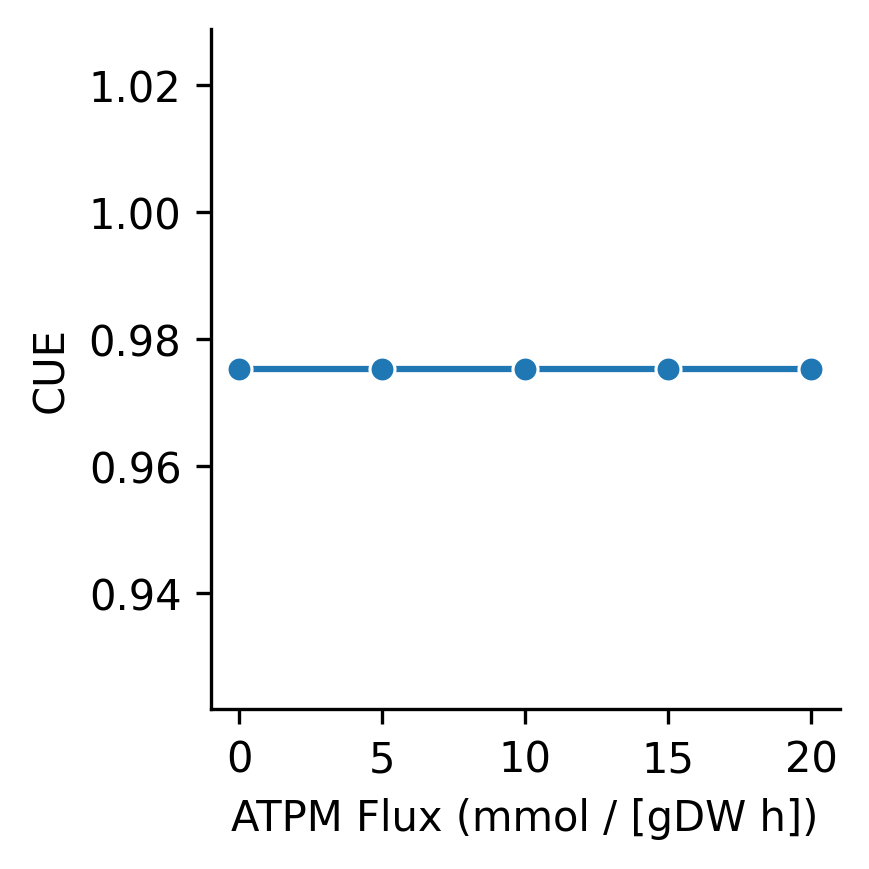
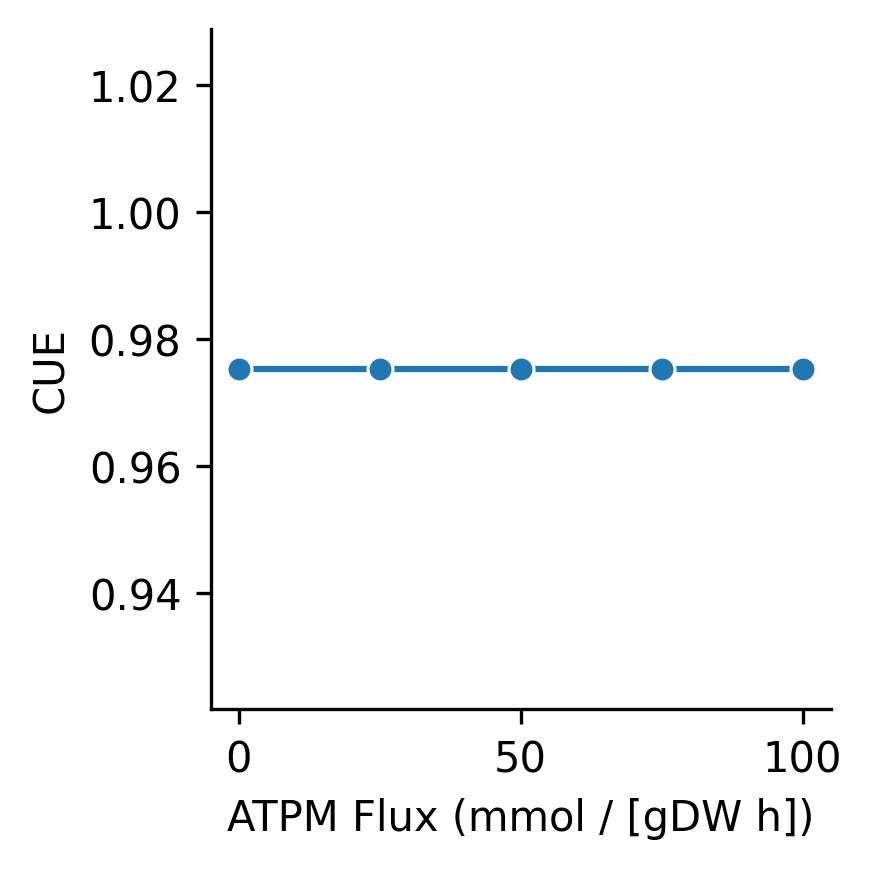
Run with more ATPM values

diff --git a/mit1002_full/maintenance/cobra_simulation.py b/mit1002_full/maintenance/cobra_simulation.py
@@ -53,7 +53,7 @@ def main():
     # Optimize and calculate CUE for a range of maintenance values
     # Save the maintenance values, biomass, and CUE to a dictionary in a list
     data = []
-    for vm in np.linspace(0, 20, 5):
+    for vm in np.linspace(0, 100, 5):
         # Update maintainance flux
         model.reactions.ATPM.lower_bound = vm
 
@@ -82,7 +82,7 @@ def main():
 
     # Plot the results
     g = sns.relplot(x='vm', y='cue', data=df, kind='line', marker='o',
-                    height=3, palette=cmap2)
+                    height=3)
     g.set_axis_labels("ATPM Flux (mmol / [gDW h])", "CUE")
 
     # Save the figure
